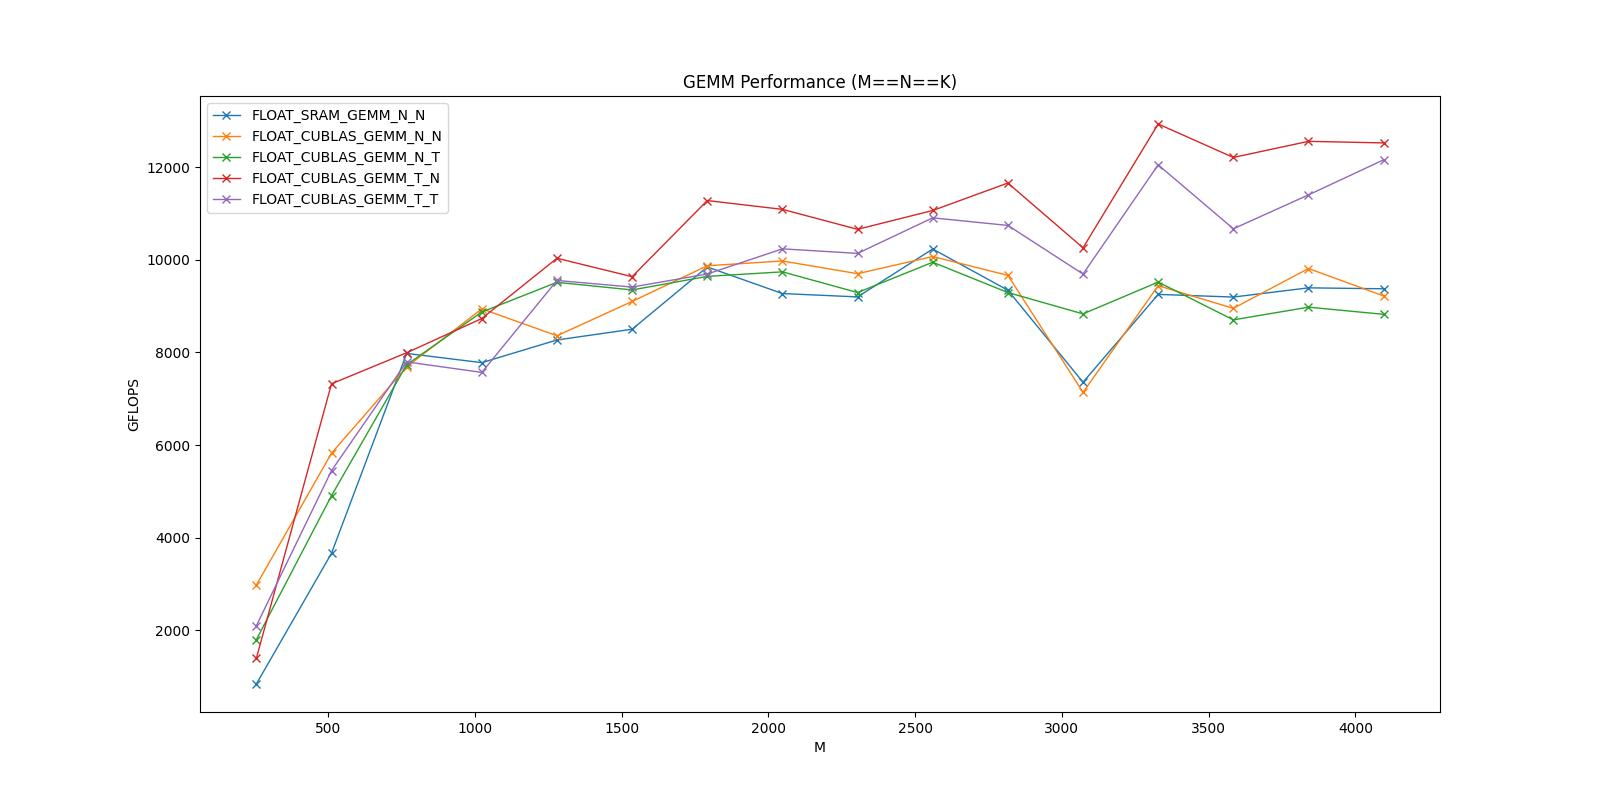
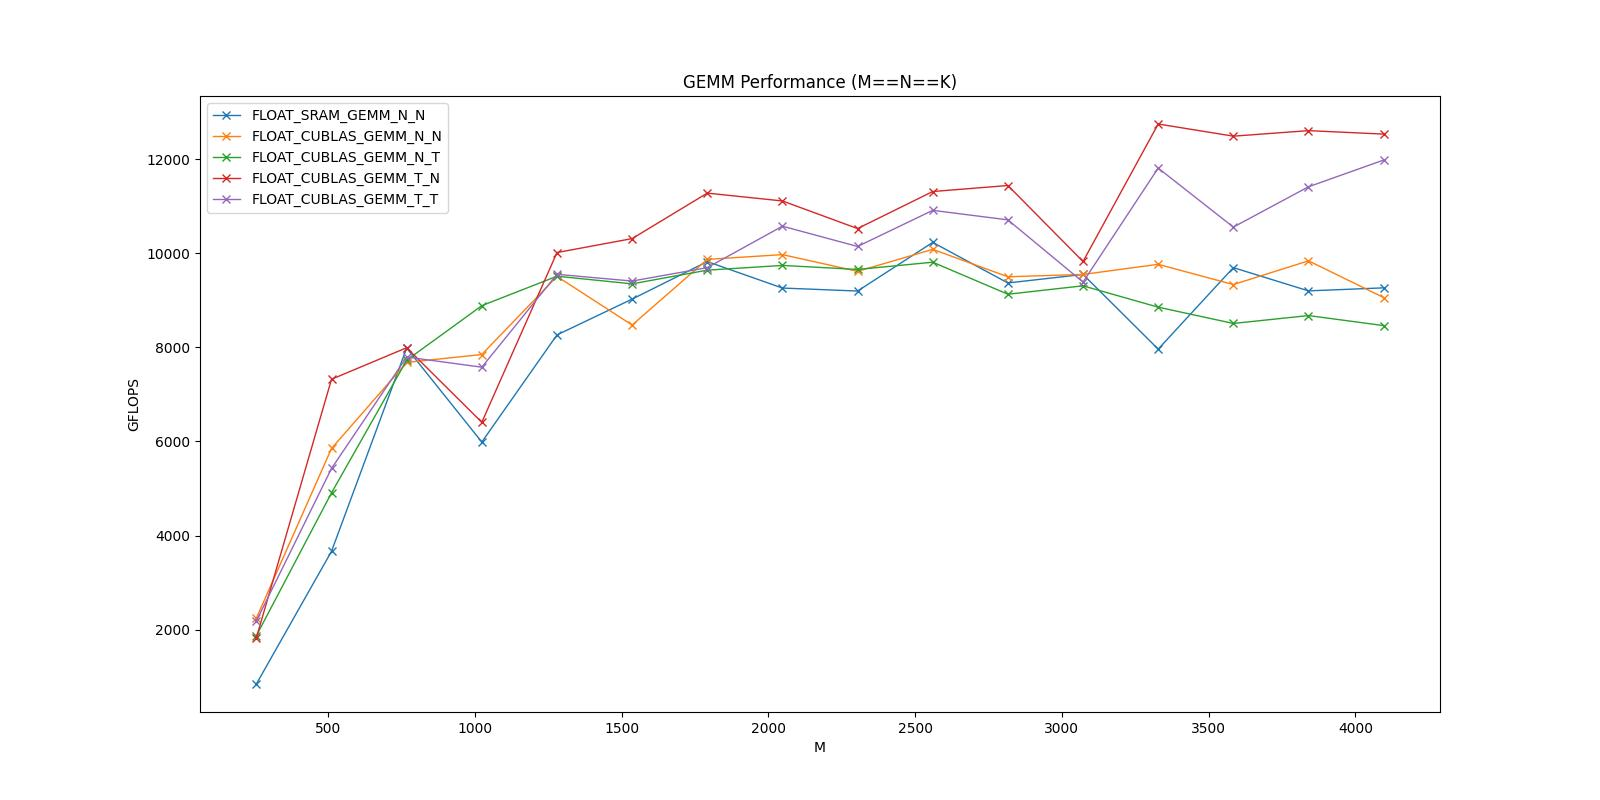
[Bugfix]: fix cublas call bugs.

diff --git a/main.cpp b/main.cpp
@@ -99,7 +99,7 @@ test_gemm_kernels(const int M, const int N, const int K, GEMM_OP op, float *perf
             CHECK_RETURN(gemm_float(dev_a, dev_b, dev_c, M, N, K, iter, op, perf), "FLOAT_NAIVE_GEMM_N_T");
             if (!perf_only) {
                 cudaMemcpy(c, dev_c, M * N * sizeof(float), cudaMemcpyKind::cudaMemcpyDeviceToHost);
-                standard_gemm_host<float>(a, b, d, M, N, K, false, true);
+                standard_gemm_host_float(a, b, d, M, N, K, false, true);
                 CHECK_TEST(compare_results<float>(d, c, M * N), "FLOAT_NAIVE_GEMM_N_T");
             }
             break;
@@ -108,48 +108,48 @@ test_gemm_kernels(const int M, const int N, const int K, GEMM_OP op, float *perf
             CHECK_RETURN(gemm_float(dev_a, dev_b, dev_c, M, N, K, iter, op, perf), "FLOAT_SRAM_GEMM_N_N");
             if (!perf_only) {
                 cudaMemcpy(c, dev_c, M * N * sizeof(float), cudaMemcpyKind::cudaMemcpyDeviceToHost);
-                standard_gemm_host<float>(a, b, d, M, N, K, false, false);
+                standard_gemm_host_float(a, b, d, M, N, K, false, false);
                 CHECK_TEST(compare_results<float>(d, c, M * N), "FLOAT_SRAM_GEMM_N_N");
             }
             break;
         }
         case GEMM_OP::FLOAT_CUBLAS_GEMM_N_N: {
-            CHECK_RETURN(cublas_gemm_float((void *) handle, dev_a, dev_b, dev_c, M, N, K, iter, op, perf),
+            CHECK_RETURN(cublas_gemm_float((void **) &handle, dev_a, dev_b, dev_c, M, N, K, iter, op, perf),
                          "FLOAT_CUBLAS_GEMM_N_N");
             if (!perf_only) {
                 cudaMemcpy(c, dev_c, M * N * sizeof(float), cudaMemcpyKind::cudaMemcpyDeviceToHost);
-                standard_gemm_host<float>(a, b, d, M, N, K, false, false);
+                standard_gemm_host_float(a, b, d, M, N, K, false, false);
                 CHECK_TEST(compare_results<float>(d, c, M * N), "FLOAT_CUBLAS_GEMM_N_N");
             }
             break;
         }
         case GEMM_OP::FLOAT_CUBLAS_GEMM_N_T: {
-            CHECK_RETURN(cublas_gemm_float((void *) handle, dev_a, dev_b, dev_c, M, N, K, iter, op, perf),
-                         "FLOAT_CUBLAS_GEMM_N_N");
+            CHECK_RETURN(cublas_gemm_float((void **) &handle, dev_a, dev_b, dev_c, M, N, K, iter, op, perf),
+                         "FLOAT_CUBLAS_GEMM_N_T");
             if (!perf_only) {
                 cudaMemcpy(c, dev_c, M * N * sizeof(float), cudaMemcpyKind::cudaMemcpyDeviceToHost);
-                standard_gemm_host<float>(a, b, d, M, N, K, false, true);
-                CHECK_TEST(compare_results<float>(d, c, M * N), "FLOAT_CUBLAS_GEMM_N_N");
+                standard_gemm_host_float(a, b, d, M, N, K, false, true);
+                CHECK_TEST(compare_results<float>(d, c, M * N), "FLOAT_CUBLAS_GEMM_N_T");
             }
             break;
         }
         case GEMM_OP::FLOAT_CUBLAS_GEMM_T_N: {
-            CHECK_RETURN(cublas_gemm_float((void *) handle, dev_a, dev_b, dev_c, M, N, K, iter, op, perf),
+            CHECK_RETURN(cublas_gemm_float((void **) &handle, dev_a, dev_b, dev_c, M, N, K, iter, op, perf),
                          "FLOAT_CUBLAS_GEMM_T_N");
             if (!perf_only) {
                 cudaMemcpy(c, dev_c, M * N * sizeof(float), cudaMemcpyKind::cudaMemcpyDeviceToHost);
-                standard_gemm_host<float>(a, b, d, M, N, K, true, false);
+                standard_gemm_host_float(a, b, d, M, N, K, true, false);
                 CHECK_TEST(compare_results<float>(d, c, M * N), "FLOAT_CUBLAS_GEMM_T_N");
             }
             break;
         }
         case GEMM_OP::FLOAT_CUBLAS_GEMM_T_T: {
-            CHECK_RETURN(cublas_gemm_float((void *) handle, dev_a, dev_b, dev_c, M, N, K, iter, op, perf),
-                         "FLOAT_CUBLAS_GEMM_N_N");
+            CHECK_RETURN(cublas_gemm_float((void **) &handle, dev_a, dev_b, dev_c, M, N, K, iter, op, perf),
+                         "FLOAT_CUBLAS_GEMM_T_T");
             if (!perf_only) {
                 cudaMemcpy(c, dev_c, M * N * sizeof(float), cudaMemcpyKind::cudaMemcpyDeviceToHost);
-                standard_gemm_host<float>(a, b, d, M, N, K, true, true);
-                CHECK_TEST(compare_results<float>(d, c, M * N), "FLOAT_CUBLAS_GEMM_N_N");
+                standard_gemm_host_float(a, b, d, M, N, K, true, true);
+                CHECK_TEST(compare_results<float>(d, c, M * N), "FLOAT_CUBLAS_GEMM_T_T");
             }
             break;
         }
@@ -208,7 +208,8 @@ test_gemm_kernels_half(const int M, const int N, const int K, GEMM_OP op, float 
         }
         case GEMM_OP::HALF_CUBLAS_GEMM_N_N: {
             CHECK_RETURN(
-                    cublas_gemm_half((void *) handle, (void *) dev_a, (void *) dev_b, (void *) dev_c, M, N, K, iter, op,
+                    cublas_gemm_half((void **) &handle, (void *) dev_a, (void *) dev_b, (void *) dev_c, M, N, K, iter,
+                                     op,
                                      perf),
                     "HALF_CUBLAS_GEMM_N_N");
             if (!perf_only) {
@@ -220,7 +221,8 @@ test_gemm_kernels_half(const int M, const int N, const int K, GEMM_OP op, float 
         }
         case GEMM_OP::HALF_CUBLAS_GEMM_N_T: {
             CHECK_RETURN(
-                    cublas_gemm_half((void *) handle, (void *) dev_a, (void *) dev_b, (void *) dev_c, M, N, K, iter, op,
+                    cublas_gemm_half((void **) &handle, (void *) dev_a, (void *) dev_b, (void *) dev_c, M, N, K, iter,
+                                     op,
                                      perf),
                     "HALF_CUBLAS_GEMM_N_T");
             if (!perf_only) {
@@ -232,7 +234,8 @@ test_gemm_kernels_half(const int M, const int N, const int K, GEMM_OP op, float 
         }
         case GEMM_OP::HALF_CUBLAS_GEMM_T_N: {
             CHECK_RETURN(
-                    cublas_gemm_half((void *) handle, (void *) dev_a, (void *) dev_b, (void *) dev_c, M, N, K, iter, op,
+                    cublas_gemm_half((void **) &handle, (void *) dev_a, (void *) dev_b, (void *) dev_c, M, N, K, iter,
+                                     op,
                                      perf),
                     "HALF_CUBLAS_GEMM_T_N");
             if (!perf_only) {
@@ -244,7 +247,8 @@ test_gemm_kernels_half(const int M, const int N, const int K, GEMM_OP op, float 
         }
         case GEMM_OP::HALF_CUBLAS_GEMM_T_T: {
             CHECK_RETURN(
-                    cublas_gemm_half((void *) handle, (void *) dev_a, (void *) dev_b, (void *) dev_c, M, N, K, iter, op,
+                    cublas_gemm_half((void **) &handle, (void *) dev_a, (void *) dev_b, (void *) dev_c, M, N, K, iter,
+                                     op,
                                      perf),
                     "HALF_CUBLAS_GEMM_T_T");
             if (!perf_only) {
@@ -276,15 +280,15 @@ int main(int argc, char **argv) {
     get_gpu_properties();
 
     if (argc != 5 && argc != 1) {
-        printf("usage: ./main [M] [N] [N] [Performance only] or ./main (means batch tests performace) \n");
+        printf("usage: ./main [M] [N] [K] [Performance only] or ./main (means batch tests performace) \n");
         exit(0);
     }
     if (argc == 5) {
         size_t M = atoi(argv[1]);
-        size_t K = atoi(argv[2]);
-        size_t N = atoi(argv[3]);
+        size_t N = atoi(argv[2]);
+        size_t K = atoi(argv[3]);
         bool performance_only = atoi(argv[4]) != 0 ? true : false;
-        printf("=====HALF OP=====\n");
+        printf("=====FLOAT OP=====\n");
         test_gemm_kernels(M, N, K, GEMM_OP::FLOAT_SRAM_GEMM_N_N, nullptr, performance_only);
         test_gemm_kernels(M, N, K, GEMM_OP::FLOAT_CUBLAS_GEMM_N_N, nullptr, performance_only);
         test_gemm_kernels(M, N, K, GEMM_OP::FLOAT_CUBLAS_GEMM_T_N, nullptr, performance_only);
@@ -301,7 +305,7 @@ int main(int argc, char **argv) {
     if (argc == 1) {
         std::vector<int> MNK(16, 256);
         int index = 1;
-        for(auto& v: MNK){
+        for (auto &v: MNK) {
             v *= index;
             index++;
         }

diff --git a/gemm/gemm.hpp b/gemm/gemm.hpp
@@ -31,7 +31,7 @@ int gemm_float(float* a, float* b, float* out, const int M, const int N, const i
 
 int gemm_half(void* a, void* b, void* out, const int M, const int N, const int K, const int iter, GEMM_OP op, float* perf = nullptr);
 
-int cublas_gemm_float(void* v_handle, float* a, float* b, float* out, const int M, const int N, const int K, const int iter, GEMM_OP op, float* perf = nullptr);
+int cublas_gemm_float(void** v_handle, float* a, float* b, float* out, const int M, const int N, const int K, const int iter, GEMM_OP op, float* perf = nullptr);
 
-int cublas_gemm_half(void* v_handle, void* a,  void* b,  void* out, const int M, const int N, const int K, const int iter, GEMM_OP op, float* perf = nullptr);
+int cublas_gemm_half(void** v_handle, void* a,  void* b,  void* out, const int M, const int N, const int K, const int iter, GEMM_OP op, float* perf = nullptr);
 #endif //CUDA_GEMM_GEMM_HPP

diff --git a/inc/test_utils.hpp b/inc/test_utils.hpp
@@ -43,12 +43,12 @@ void generate_random_half(half_float::half *input, const int length) {
     }
 }
 
-template<typename T>
-void standard_gemm_host(const T *a, const T *b, T *out, const int M, const int N, const int K, bool transA = false,
+
+void standard_gemm_host_float(const float *a, const float *b, float *out, const int M, const int N, const int K, bool transA = false,
                         bool transB = true) {
     for (int m = 0; m < M; m++) {
         for (int n = 0; n < N; n++) {
-            auto sum = 0;
+            float sum = 0.0f;
             for (int k = 0; k < K; k++) {
                 int a_index = transA ? k * M + m : m * K + k;
                 int b_index = transB ? n * K + k : k * N + n;
